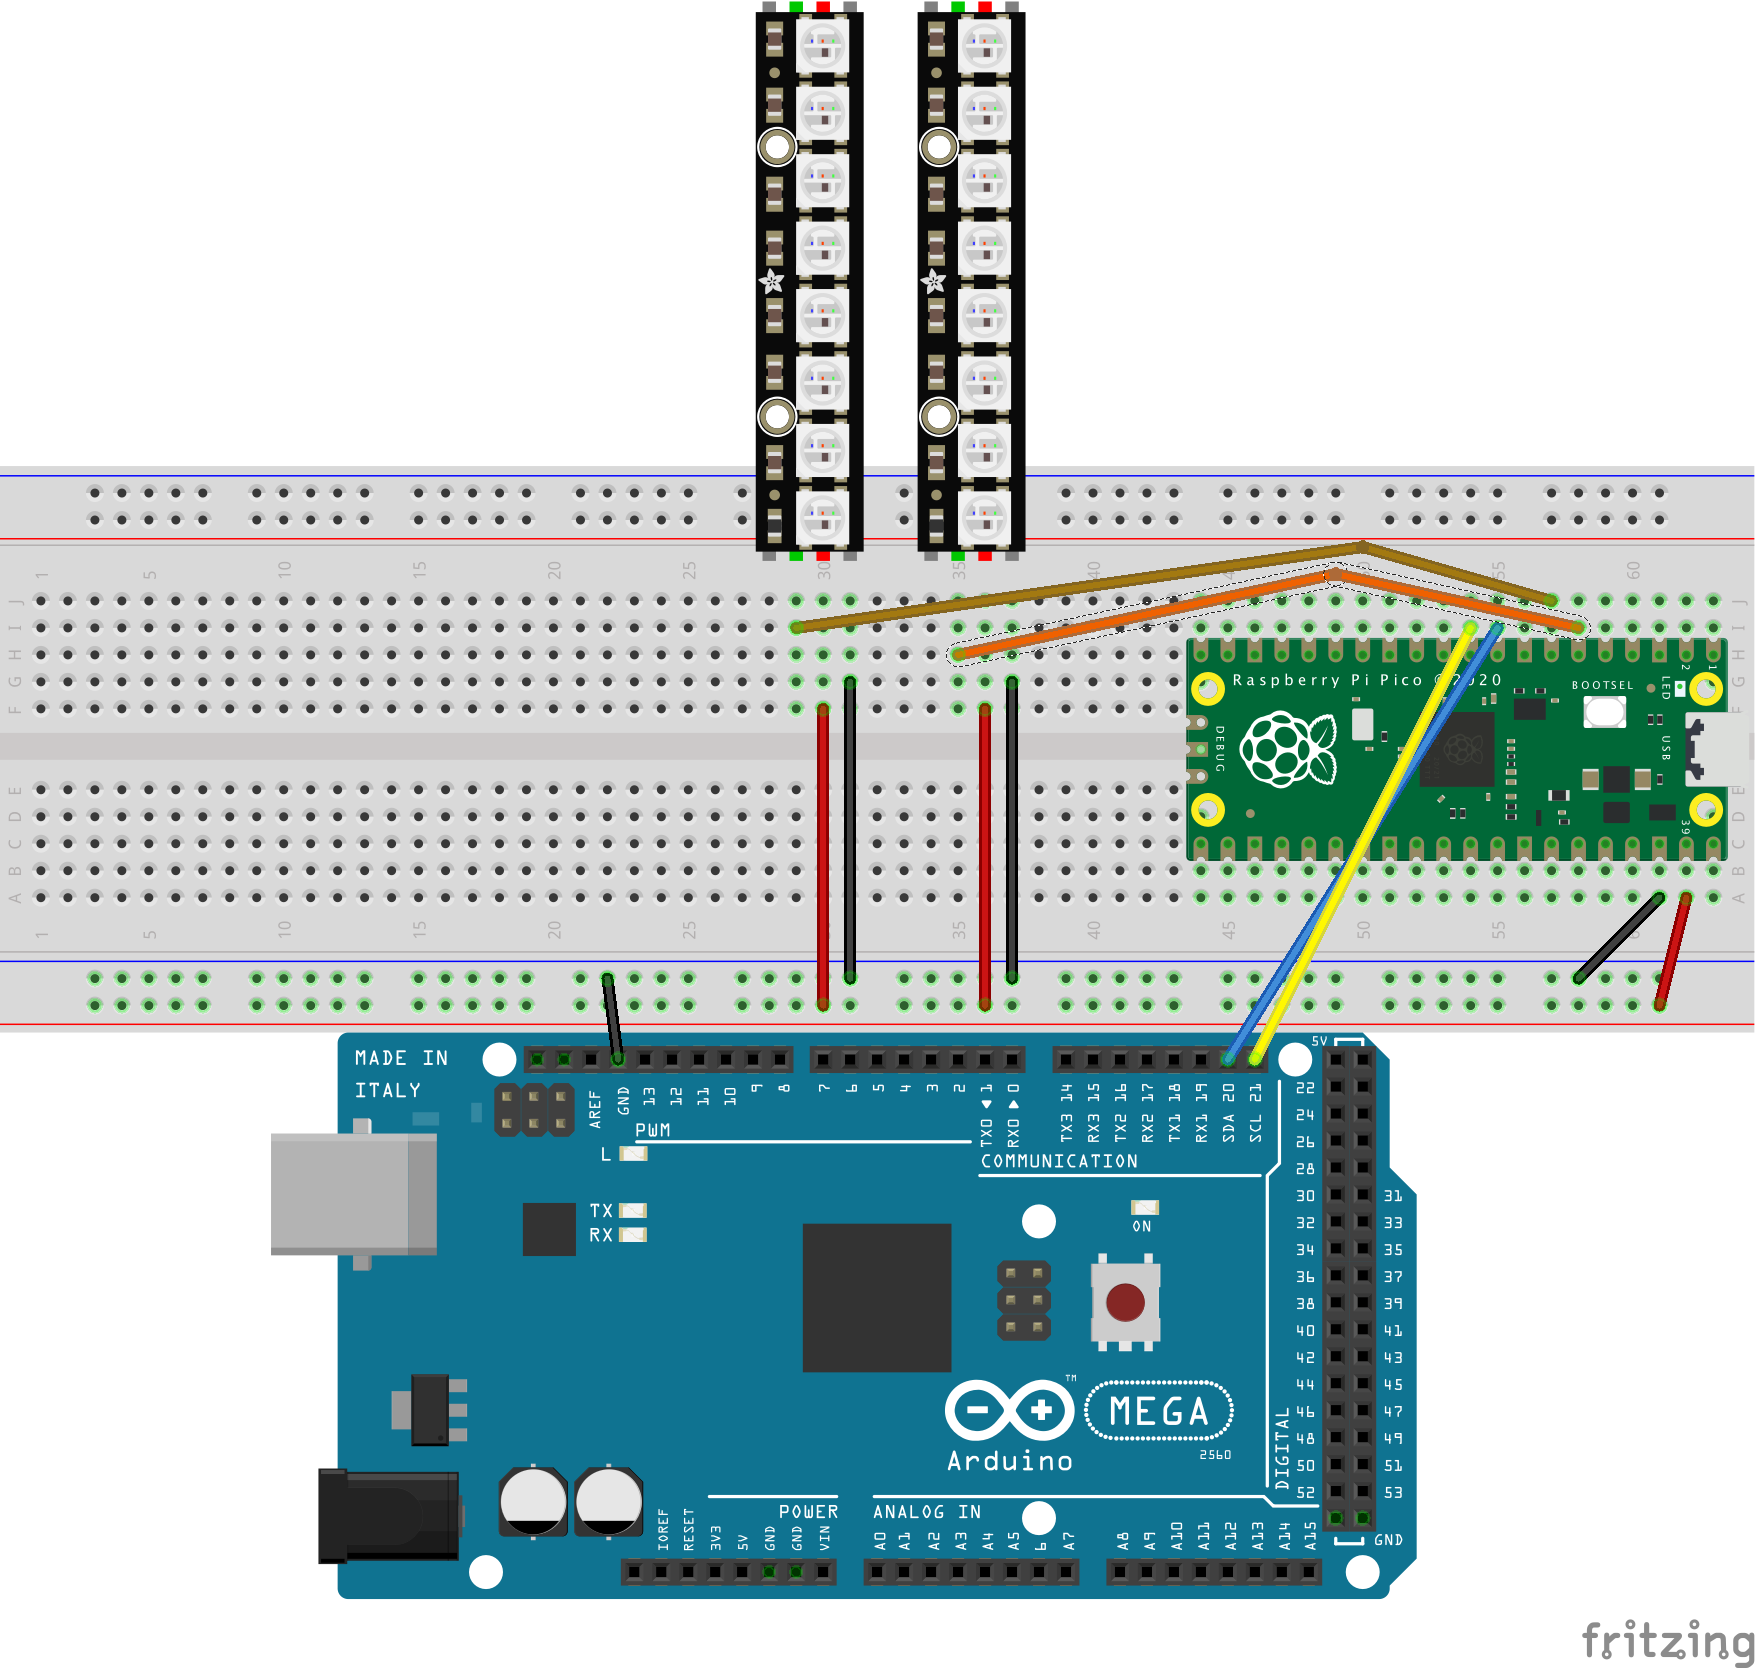
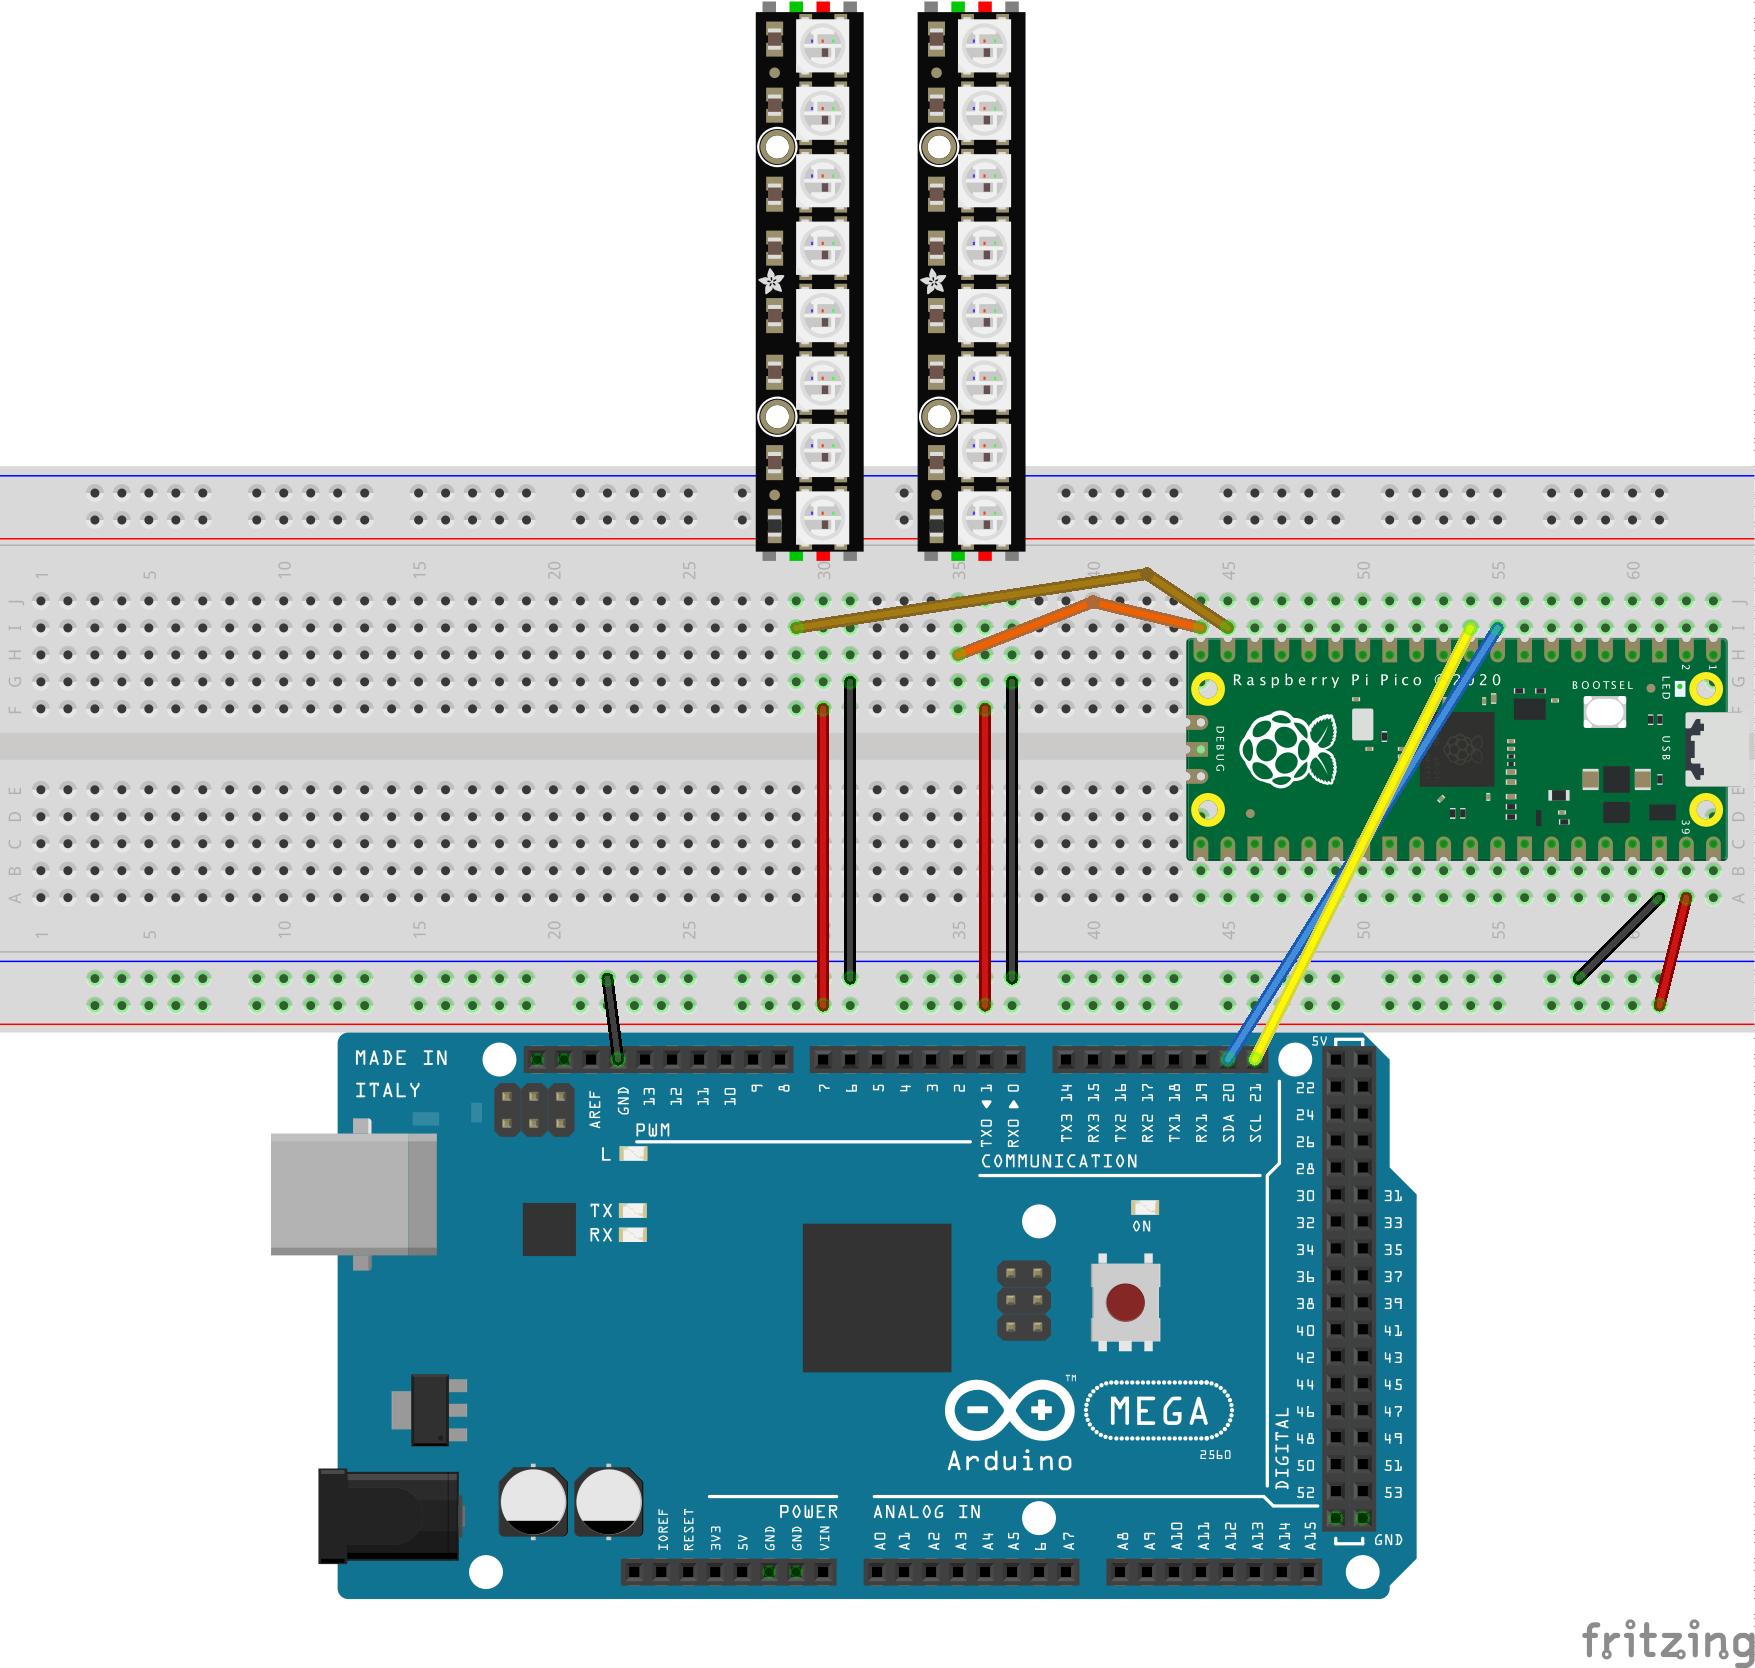
Update I2C docs

Changed region(s): [[0.5231, 0.3118, 0.8923, 0.4053]]

diff --git a/examples/animation_minimal.py b/examples/animation_minimal.py
@@ -9,19 +9,25 @@ from colors import *
 # the Animation restarts.
 
 class MyAnimation(pixelstrip.Animation):
-    def __init__(self):
+    """
+    Write a description of this Animtion here.
+    """
+    def __init__(self, cycle_time=0.5)):
         pixelstrip.Animation.__init__(self)
+        self.cycle_time = cycle_time
         # variable setup
 
     def reset(self, strip):
-        # reset variables
-        # set timeout if needed
+        self.timeout = self.cycle_time
         strip.clear()
         strip.show()
+        # reset variables
 
     def draw(self, strip, delta_time):
-        # change pixel values
-        strip.show()
+        if self.is_timed_out():
+            # change pixel values
+            strip.show()
+            self.timeout = self.cycle_time
 
 
 if __name__ == "__main__":

diff --git a/examples/i2c_examples/i2c_animations.py b/examples/i2c_examples/i2c_animations.py
@@ -22,7 +22,7 @@ animation = [
 # List of PixelStrips
 strip = [
     PixelStrip(board.GP15, 8, bpp=4, pixel_order="GRB", brightness=BRIGHTNESS),
-    PixelStrip(board.GP16, 8, bpp=4, pixel_order="GRB", brightness=BRIGHTNESS)
+    PixelStrip(board.GP14, 8, bpp=4, pixel_order="GRB", brightness=BRIGHTNESS)
 ]
 
 # The built-in LED will turn on for half a second after every message

diff --git a/examples/i2c_examples/README.md b/examples/i2c_examples/README.md
@@ -12,6 +12,8 @@ A similar example can be created allowing two CircuitPython boards to talk to ea
 
 ![Wire](img/wire_example_bb.png)
 
+The yellow clock wire (SCL) should be connected to GP7, the 10th pin from the top.  The blue data wire (SDA) should be connected to GP6, which is the 9th pin counting from the USB plug.
+
 # I2C Animation Test
 
 This project demonstrates that NeoPixel strips connected to a microcontroller can have their animations changed based on I2C communication from an Arduino.  The project has two parts:
@@ -29,7 +31,7 @@ For the Pico program, files should be installed onto the Pico.  First copy the f
 * `neopixel.mpy` and `adafruit_pixelbuf.mpy` taken from the CircuitPython libraries
 * `pixelstrip.mpy` and `colors.mpy` taken from the PixelStrip repository
 * `main.py`, copied from `i2c_animations.py`
-* `animation_pulse.py` copied from the PixelStrip examples.  Comment out the "main" routine in the last 8 lines of this file.
+* `animation_pulse.py` copied from the PixelStrip examples.  
 
 ![Files](img/i2c_test_files.png)
 
@@ -76,4 +78,7 @@ Tools > Board > Boards Manager...
 
 Search for "Apollo" and then install the "SparkFun Apollo3 Boards" package.
 
+## See Also:
+* [I2CTarget class](https://docs.circuitpython.org/en/latest/shared-bindings/i2ctarget/index.html)
+* [CircuitPython I2C and SPI Under The Hood](https://learn.adafruit.com/circuitpython-basics-i2c-and-spi)
 
